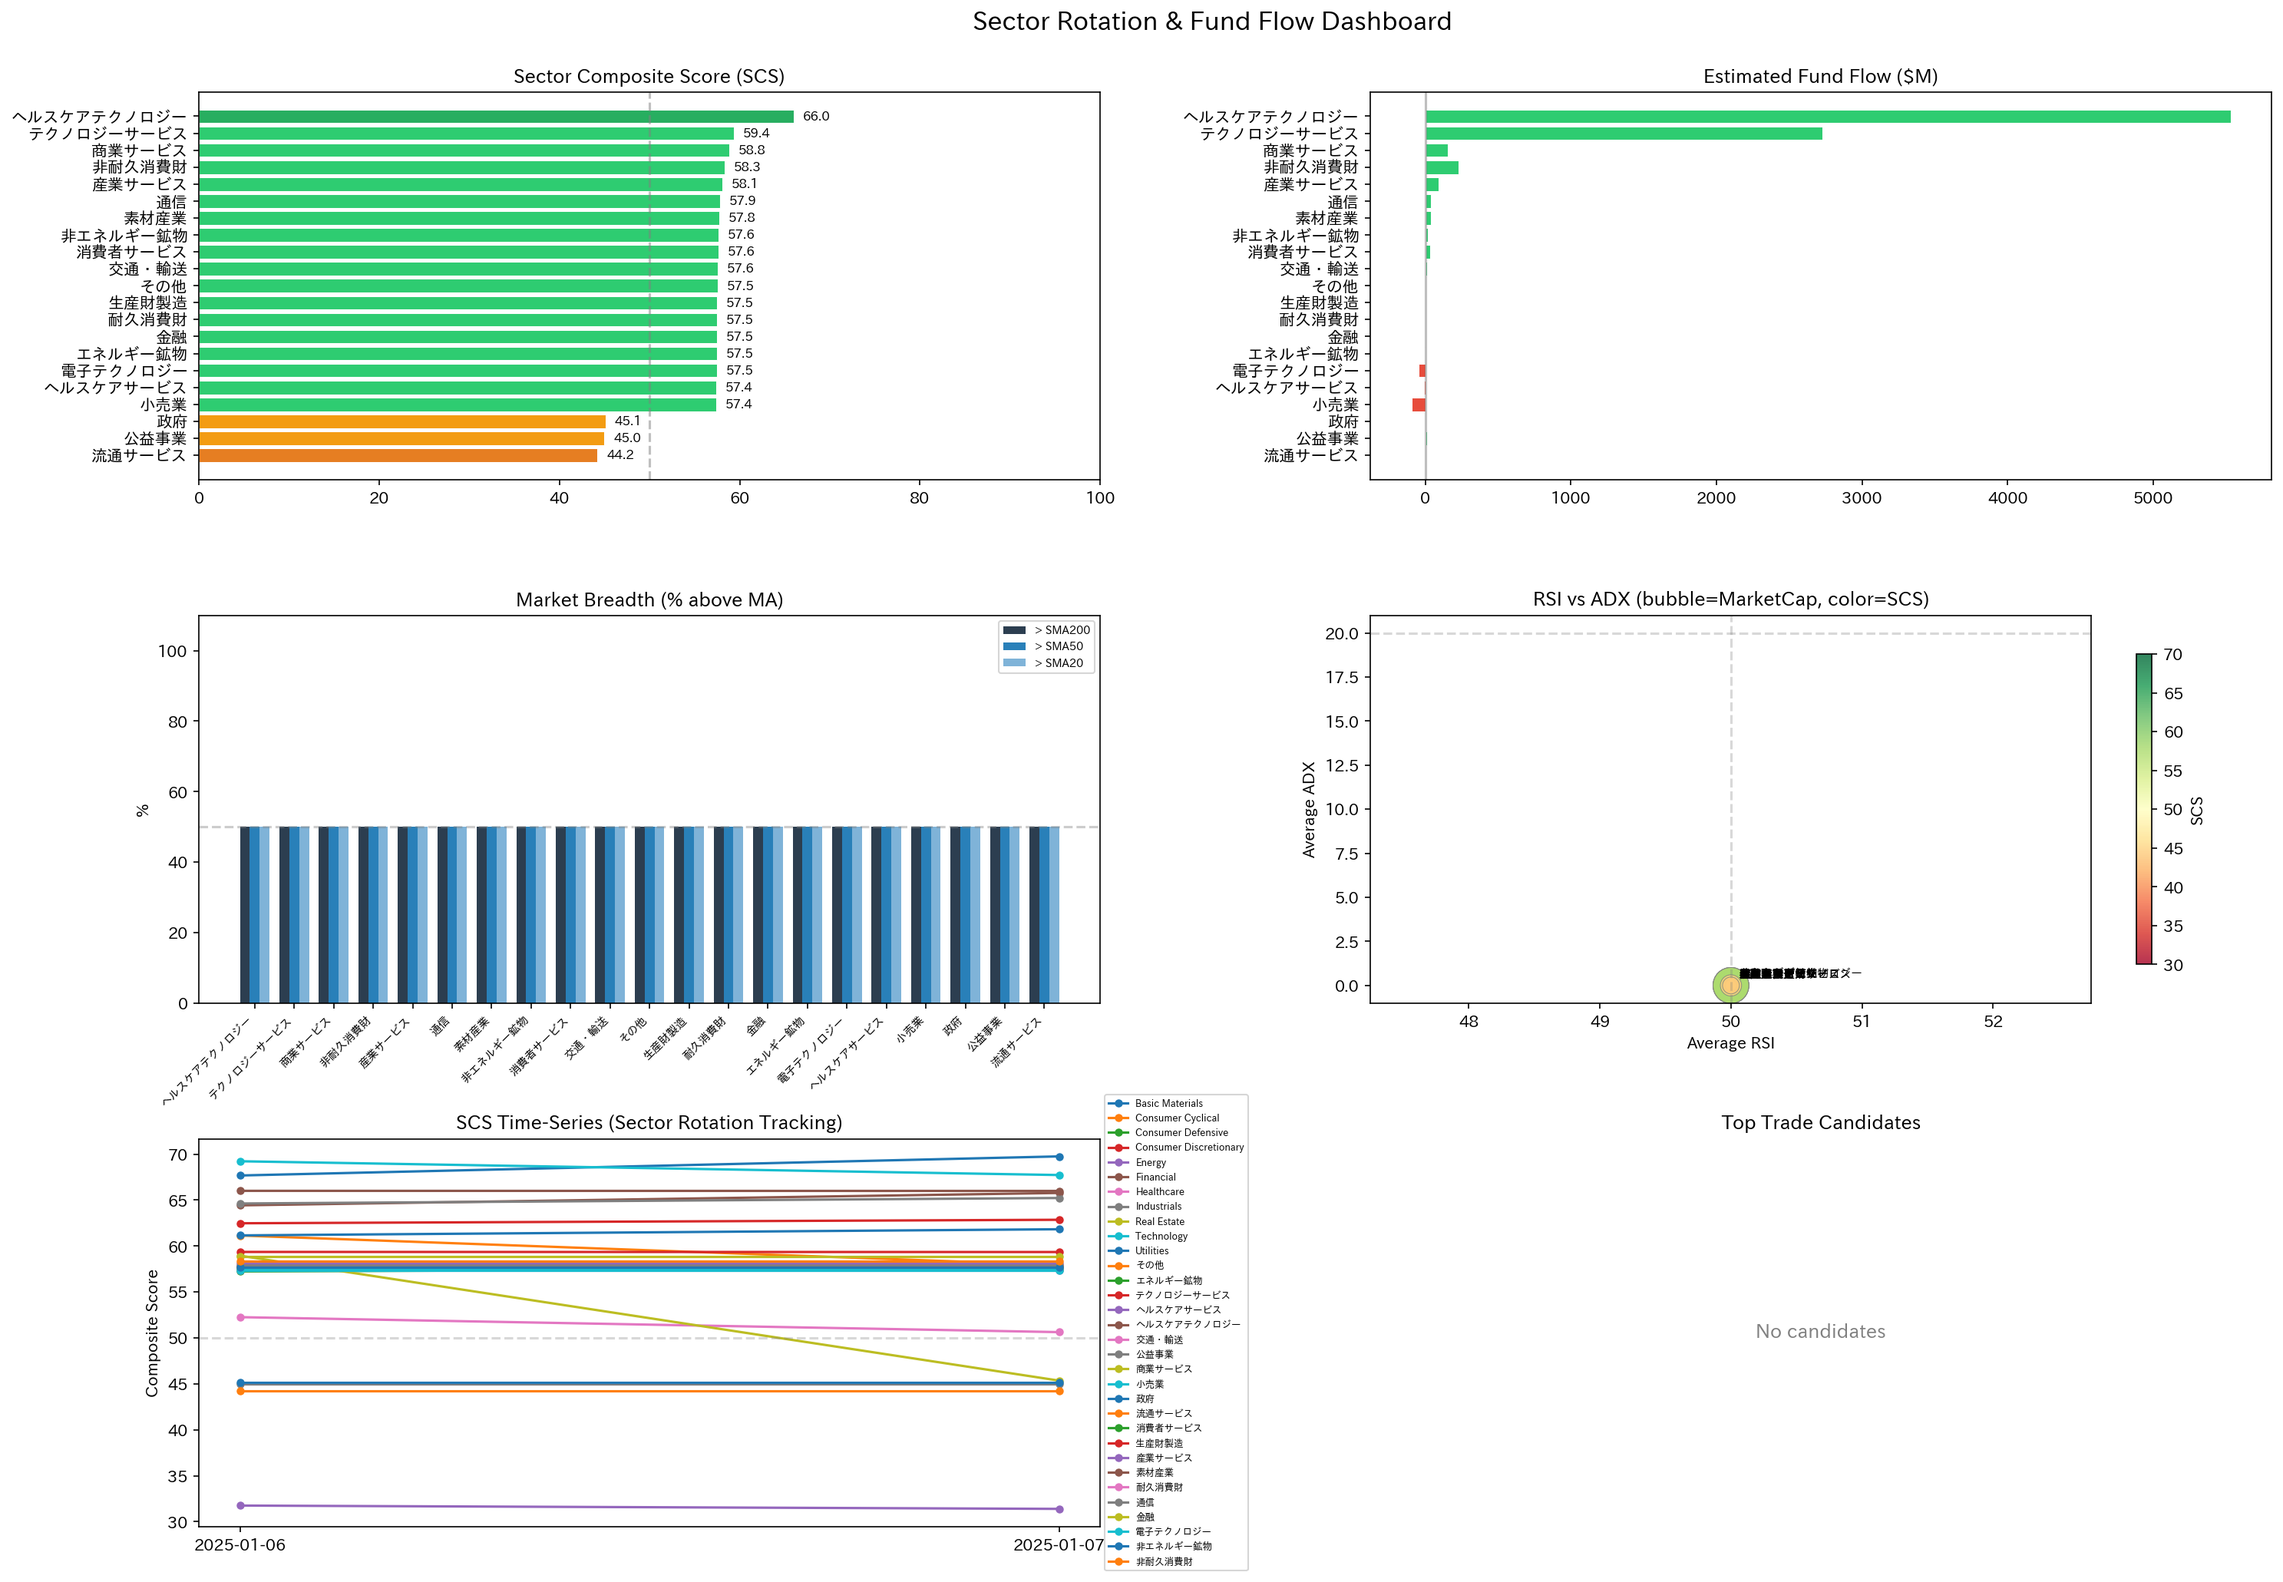
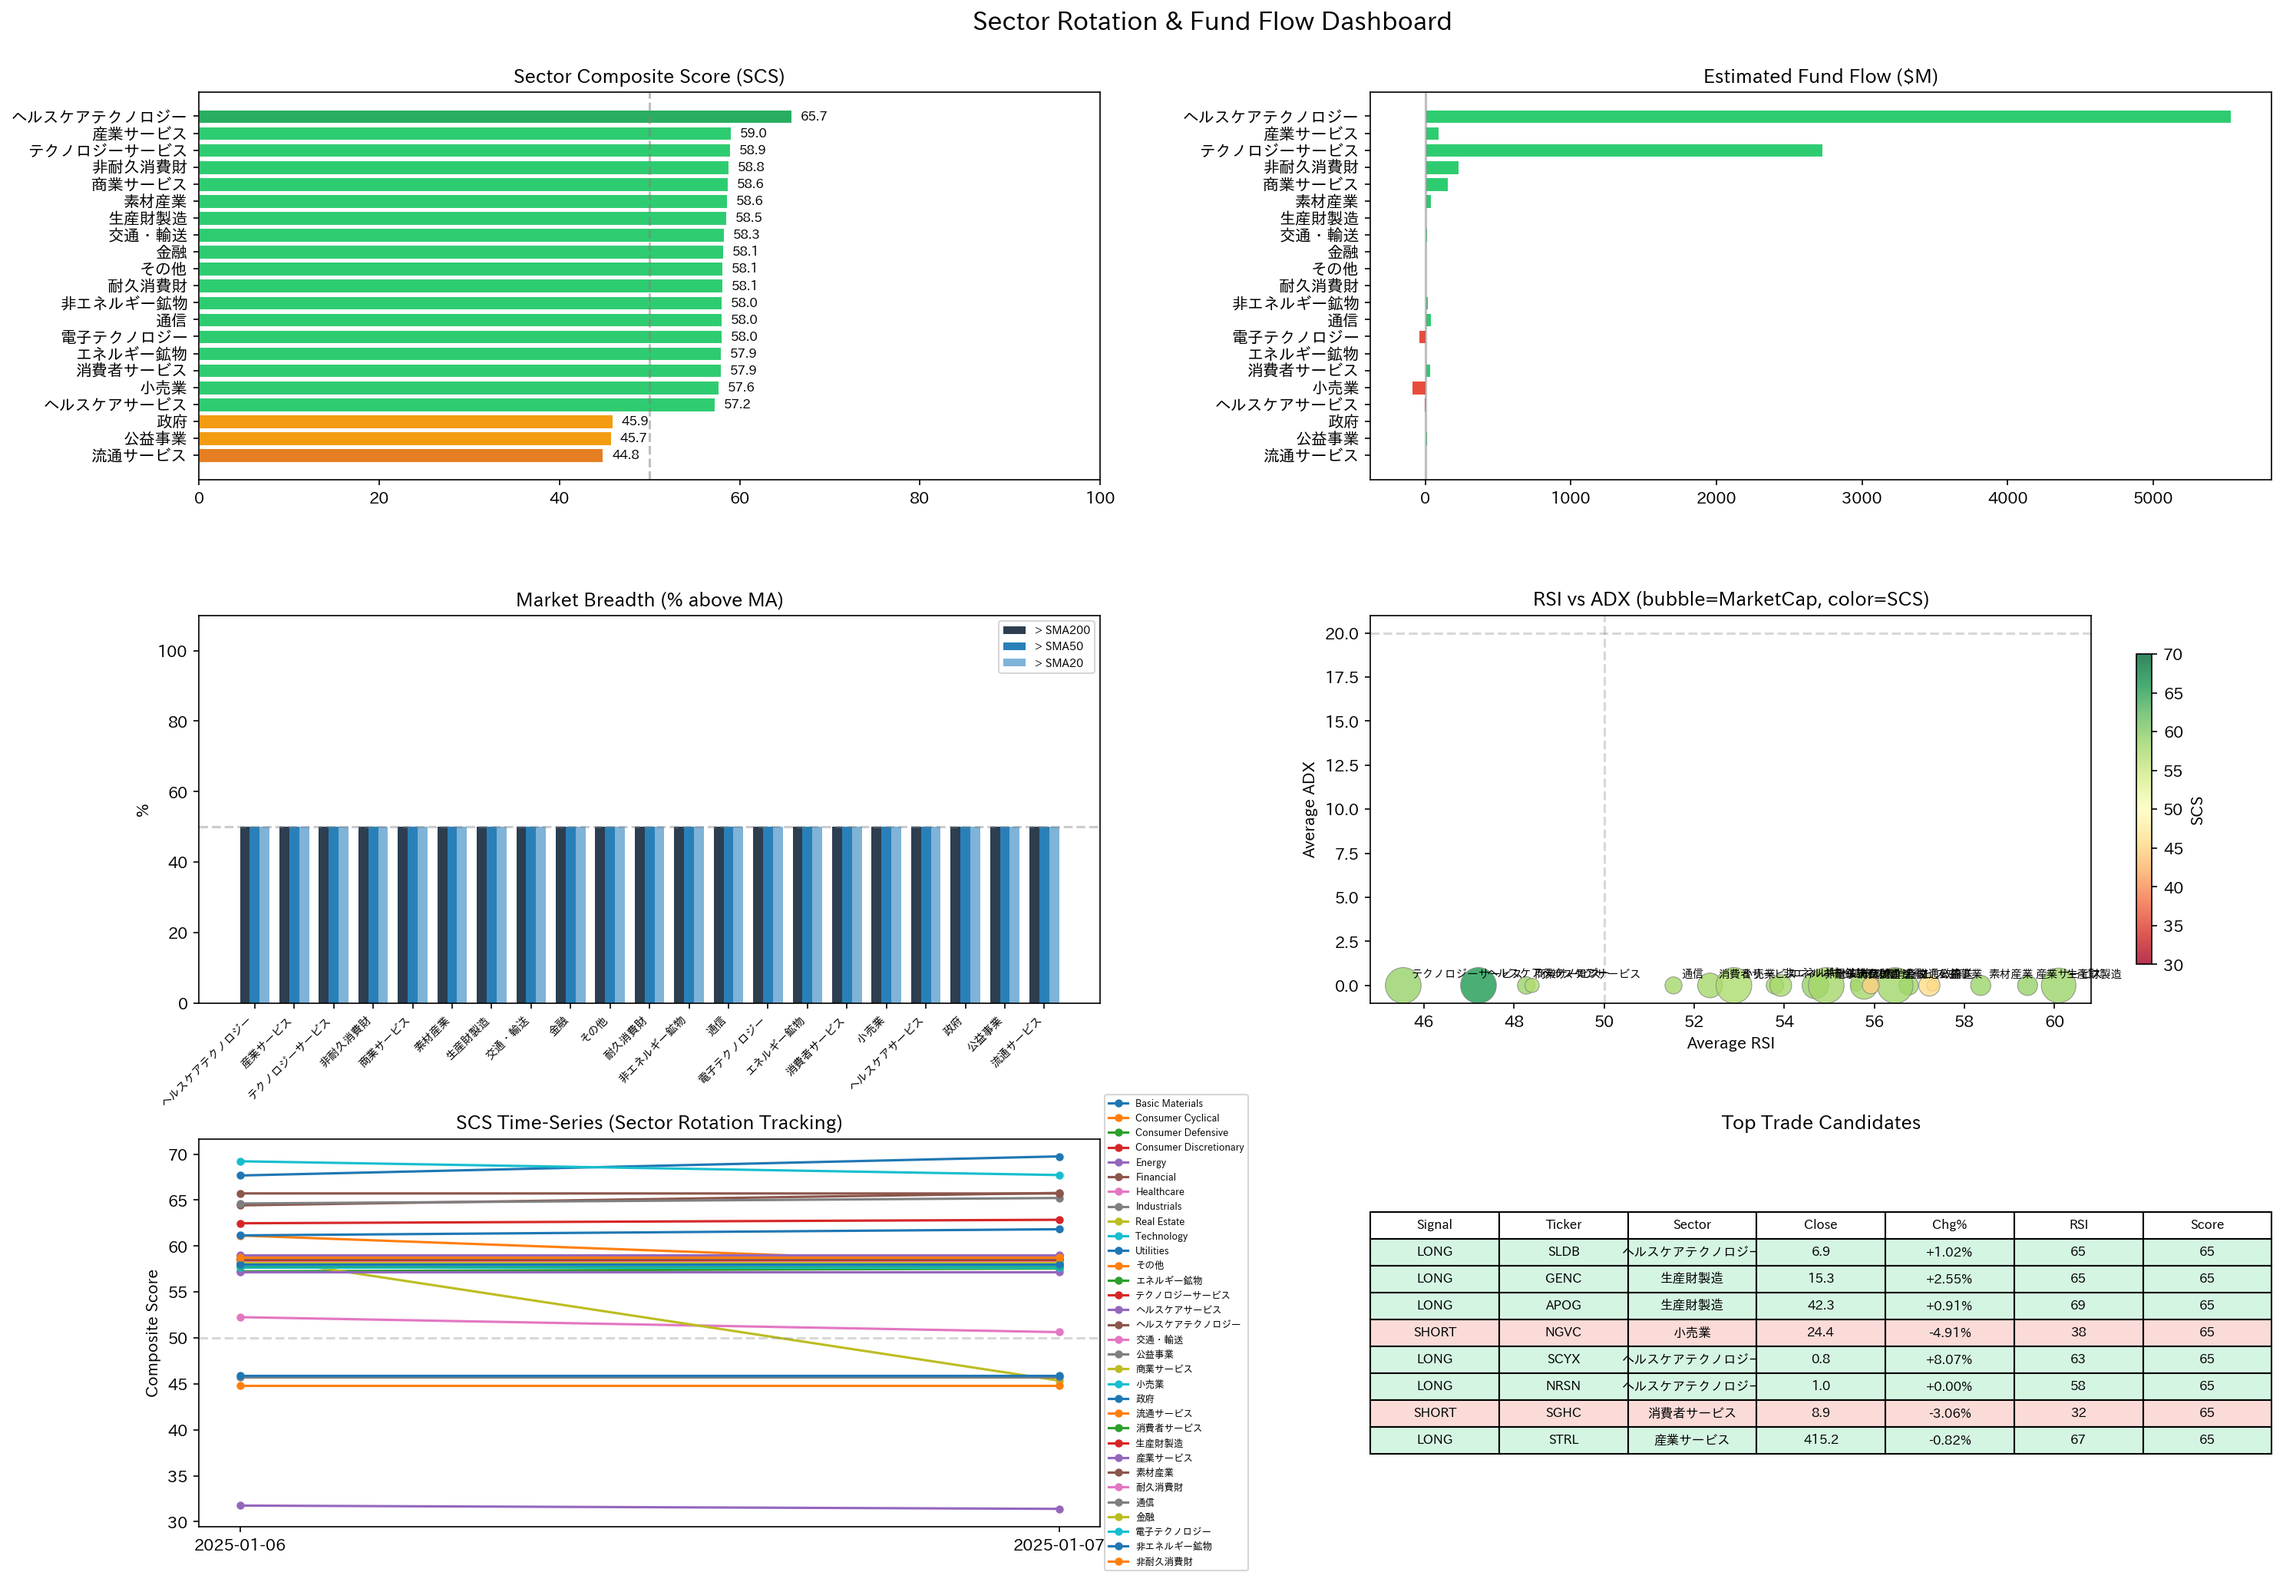
Add Technical Rating fallback for trade signal generation
When SMA/MACD/ADX columns are unavailable, the analyzer now uses
Technical Rating, MA Rating, Momentum, and CCI from the merged
technical CSV as alternative signal sources. This produces trade
candidates even without raw SMA/MACD data.

Also adds Japanese column mappings for TradingView technical CSV
columns (RSI, Momentum, CCI, Stochastic, ratings).

https://claude.ai/code/session_012j5HkUiPyKLfhtvkjNH37o

diff --git a/screener/sector_flow_analyzer.py b/screener/sector_flow_analyzer.py
@@ -108,7 +108,7 @@ def _normalize_columns(df: pd.DataFrame) -> pd.DataFrame:
         "希薄化EPS, 直近12ヶ月": "EPS (TTM)",
         "希薄化EPS成長率 %, 直近12ヶ月前年比": "EPS Growth %",
         "配当利回り %, 直近12ヶ月": "Dividend Yield %",
-        # テクニカル指標の日本語カラム
+        # テクニカル指標の日本語カラム (直接指標値)
         "単純移動平均線 (20)": "SMA20",
         "単純移動平均線 (50)": "SMA50",
         "単純移動平均線 (200)": "SMA200",
@@ -117,12 +117,18 @@ def _normalize_columns(df: pd.DataFrame) -> pd.DataFrame:
         "MACDシグナル (12, 26)": "MACD.signal",
         "平均方向性指数 (14)": "ADX",
         "アベレージ・トゥルー・レンジ (14)": "ATR",
+        # TradingView テクニカル分析 CSV の日本語カラム (評価+オシレーター)
+        "テクニカルの評価 1日": "Technical Rating",
+        "移動平均線の評価 1日": "MA Rating",
+        "オシレーターの評価 1日": "Oscillator Rating",
+        "ローソク足パターン 1日": "Candlestick Pattern",
     }
     rename_map = {k: v for k, v in ja_col_map.items() if k in df.columns}
     if rename_map:
         df = df.rename(columns=rename_map)
 
-    # カラム名の揺らぎを吸収 (英語カラムの表記揺れ対応)
+    # カラム名の揺らぎを吸収 (英語/日本語カラムの表記揺れ対応)
+    import re as _re
     col_map = {}
     for c in df.columns:
         lower = c.strip().lower()
@@ -148,6 +154,19 @@ def _normalize_columns(df: pd.DataFrame) -> pd.DataFrame:
             col_map[c] = "ADX"
         elif lower in ("average true range (14)", "atr"):
             col_map[c] = "ATR"
+        # TradingView テクニカルCSVの「〜 1日」付きカラム名に対応
+        elif _re.match(r"rsi\s*\(相対力指数\)\s*\(14\)", lower):
+            col_map[c] = "RSI"
+        elif _re.match(r"mom\s*\(モメンタム\)\s*\(10\)", lower):
+            col_map[c] = "Momentum"
+        elif _re.match(r"ao\s*\(オーサム・オシレーター\)", lower):
+            col_map[c] = "Awesome Oscillator"
+        elif _re.match(r"cci\s*\(商品チャネル指数\)\s*\(20\)", lower):
+            col_map[c] = "CCI"
+        elif "stoch" in lower and "ストキャスティクス" in c and "%k" in lower:
+            col_map[c] = "Stoch %K"
+        elif "stoch" in lower and "ストキャスティクス" in c and "%d" in lower:
+            col_map[c] = "Stoch %D"
     if col_map:
         df = df.rename(columns=col_map)
 
@@ -160,6 +179,7 @@ def _convert_numeric(df: pd.DataFrame) -> pd.DataFrame:
         "Close", "Change %", "Volume", "Relative Volume", "Market Cap",
         "SMA20", "SMA50", "SMA200", "RSI", "MACD.macd", "MACD.signal",
         "ADX", "ATR", "P/E", "EPS (TTM)",
+        "Momentum", "Awesome Oscillator", "CCI", "Stoch %K", "Stoch %D",
     ]
     for c in numeric_cols:
         if c in df.columns:
@@ -456,6 +476,16 @@ def generate_trade_signals(
 
     candidates = []
 
+    # SMA データが存在するかチェック (全銘柄の大半で SMA50 が有効か)
+    has_sma = "SMA50" in df.columns and df["SMA50"].notna().mean() > 0.3
+    has_macd = "MACD.macd" in df.columns and df["MACD.macd"].notna().mean() > 0.3
+    has_adx = "ADX" in df.columns and df["ADX"].notna().mean() > 0.3
+    # テクニカル評価カラム (Technical Rating) が利用可能か
+    has_tech_rating = "Technical Rating" in df.columns
+    has_momentum = "Momentum" in df.columns
+    has_cci = "CCI" in df.columns
+    has_stoch = "Stoch %K" in df.columns
+
     for _, row in df.iterrows():
         sector = row.get("Sector", "")
         ticker = row.get("Ticker", "")
@@ -466,11 +496,30 @@ def generate_trade_signals(
         change = row.get("Change %", 0)
         rsi = row.get("RSI", 50)
         rvol = row.get("Relative Volume", 1.0)
-        sma50 = row.get("SMA50", close)
-        sma200 = row.get("SMA200", close)
+        sma50 = row.get("SMA50", None)
+        sma200 = row.get("SMA200", None)
         adx = row.get("ADX", 0)
         macd = row.get("MACD.macd", 0)
         macd_sig = row.get("MACD.signal", 0)
+
+        # テクニカルCSV由来の指標
+        tech_rating = str(row.get("Technical Rating", "")).strip()
+        ma_rating = str(row.get("MA Rating", "")).strip()
+        momentum = row.get("Momentum", 0) if has_momentum else 0
+        cci = row.get("CCI", 0) if has_cci else 0
+        stoch_k = row.get("Stoch %K", 50) if has_stoch else 50
+
+        # NaN チェック
+        if pd.isna(rsi):
+            rsi = 50
+        if pd.isna(momentum):
+            momentum = 0
+        if pd.isna(cci):
+            cci = 0
+        if pd.isna(stoch_k):
+            stoch_k = 50
+        if pd.isna(rvol):
+            rvol = 1.0
 
         reasons = []
         signal = None
@@ -481,16 +530,31 @@ def generate_trade_signals(
             is_long = True
             reasons.append(f"強セクター (SCS={scs_map.get(sector, 0):.1f})")
 
-            if close > sma50:
-                strength += 20
-                reasons.append("Close > SMA50 (中期上昇)")
+            # SMA ベースのトレンド判定 (利用可能な場合)
+            if has_sma and sma50 is not None and not pd.isna(sma50):
+                if close > sma50:
+                    strength += 20
+                    reasons.append("Close > SMA50 (中期上昇)")
+                else:
+                    is_long = False
+                if sma200 is not None and not pd.isna(sma200) and close > sma200:
+                    strength += 15
+                    reasons.append("Close > SMA200 (長期上昇)")
             else:
-                is_long = False
+                # SMA がない場合: Technical Rating / MA Rating で代替
+                if has_tech_rating:
+                    if tech_rating in ("買い", "強い買い"):
+                        strength += 20
+                        reasons.append(f"テクニカル評価: {tech_rating}")
+                    elif tech_rating == "中立":
+                        strength += 5
+                    else:
+                        is_long = False
+                if ma_rating in ("買い", "強い買い"):
+                    strength += 10
+                    reasons.append(f"MA評価: {ma_rating}")
 
-            if close > sma200:
-                strength += 15
-                reasons.append("Close > SMA200 (長期上昇)")
-
+            # RSI
             if 40 < rsi < 70:
                 strength += 15
                 reasons.append(f"RSI={rsi:.1f} (適正レンジ)")
@@ -498,18 +562,30 @@ def generate_trade_signals(
                 strength -= 10
                 reasons.append(f"RSI={rsi:.1f} (過熱注意)")
 
+            # 出来高
             if rvol > 1.0:
                 strength += 10
                 reasons.append(f"RVOL={rvol:.2f} (出来高増加)")
 
-            if macd > macd_sig:
+            # MACD (利用可能な場合)
+            if has_macd and macd > macd_sig:
                 strength += 10
                 reasons.append("MACD > Signal (上昇モメンタム)")
 
-            if adx > 20:
+            # ADX (利用可能な場合)
+            if has_adx and adx > 20:
                 strength += 10
                 reasons.append(f"ADX={adx:.1f} (トレンド明確)")
 
+            # Momentum / CCI 代替指標
+            if has_momentum and momentum > 0:
+                strength += 5
+                reasons.append(f"Momentum={momentum:.2f} (上昇)")
+            if has_cci and cci > 100:
+                strength += 5
+                reasons.append(f"CCI={cci:.0f} (強気)")
+
+            # ローテーション
             if sector in rising_set:
                 strength += 15
                 reasons.append("ローテーション流入中")
@@ -522,16 +598,31 @@ def generate_trade_signals(
             is_short = True
             reasons.append(f"弱セクター (SCS={scs_map.get(sector, 0):.1f})")
 
-            if close < sma50:
-                strength += 20
-                reasons.append("Close < SMA50 (中期下降)")
+            # SMA ベースのトレンド判定 (利用可能な場合)
+            if has_sma and sma50 is not None and not pd.isna(sma50):
+                if close < sma50:
+                    strength += 20
+                    reasons.append("Close < SMA50 (中期下降)")
+                else:
+                    is_short = False
+                if sma200 is not None and not pd.isna(sma200) and close < sma200:
+                    strength += 15
+                    reasons.append("Close < SMA200 (長期下降)")
             else:
-                is_short = False
+                # SMA がない場合: Technical Rating / MA Rating で代替
+                if has_tech_rating:
+                    if tech_rating in ("売り", "強い売り"):
+                        strength += 20
+                        reasons.append(f"テクニカル評価: {tech_rating}")
+                    elif tech_rating == "中立":
+                        strength += 5
+                    else:
+                        is_short = False
+                if ma_rating in ("売り", "強い売り"):
+                    strength += 10
+                    reasons.append(f"MA評価: {ma_rating}")
 
-            if close < sma200:
-                strength += 15
-                reasons.append("Close < SMA200 (長期下降)")
-
+            # RSI
             if 30 < rsi < 60:
                 strength += 15
                 reasons.append(f"RSI={rsi:.1f} (まだ売り余地)")
@@ -539,18 +630,30 @@ def generate_trade_signals(
                 strength -= 10
                 reasons.append(f"RSI={rsi:.1f} (売られ過ぎ注意)")
 
+            # 出来高
             if rvol > 1.0:
                 strength += 10
                 reasons.append(f"RVOL={rvol:.2f} (売り圧力)")
 
-            if macd < macd_sig:
+            # MACD (利用可能な場合)
+            if has_macd and macd < macd_sig:
                 strength += 10
                 reasons.append("MACD < Signal (下降モメンタム)")
 
-            if adx > 20:
+            # ADX (利用可能な場合)
+            if has_adx and adx > 20:
                 strength += 10
                 reasons.append(f"ADX={adx:.1f} (トレンド明確)")
 
+            # Momentum / CCI 代替指標
+            if has_momentum and momentum < 0:
+                strength += 5
+                reasons.append(f"Momentum={momentum:.2f} (下降)")
+            if has_cci and cci < -100:
+                strength += 5
+                reasons.append(f"CCI={cci:.0f} (弱気)")
+
+            # ローテーション
             if sector in falling_set:
                 strength += 15
                 reasons.append("ローテーション流出中")
